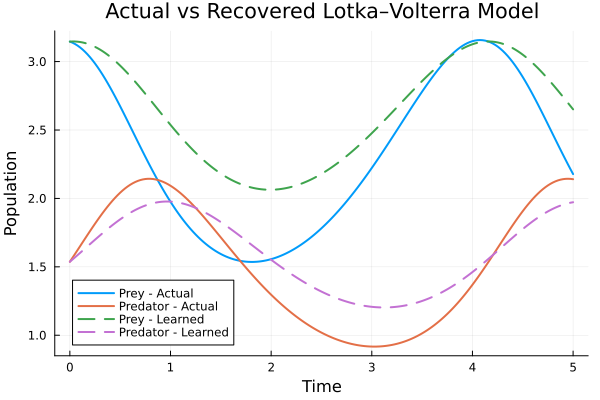
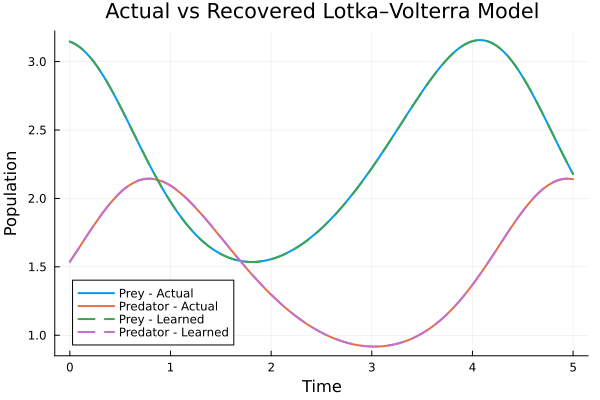
Debias the recovered coefficients with a least-squares refit
The L1 fit selects the active term (u1*u2); an ordinary least-squares refit on
that support then recovers its true magnitude (relaxed LASSO). Recovered
coefficients improve from ~0.83/0.70 to 0.899/0.800 (true 0.9/0.8), so the
actual-vs-learned model now overlays the ground truth almost exactly.

diff --git a/README.md b/README.md
@@ -57,9 +57,10 @@ split into seven labelled sections:
    with `Zygote` reverse-mode AD through the ODE solve.
 5. **Analysis** — trained trajectory vs. ground truth, the network's recovered
    interaction term vs. the true one, and the reconstruction error.
-6. **Sparse symbolic regression** — build a polynomial candidate library, then
-   solve a LASSO (`min ‖Φβ − y‖² + λ‖β‖₁`) so that only the genuinely-active
-   basis terms survive, yielding an interpretable equation.
+6. **Sparse symbolic regression** — build a polynomial candidate library and run
+   a *relaxed* LASSO: an L1 fit (`min ‖Φβ − y‖² + λ‖β‖₁`) selects the handful of
+   active terms, then ordinary least squares refits their magnitudes (debiasing
+   the L1 shrinkage) to give an interpretable equation with accurate coefficients.
 7. **Rebuild & compare** — plug the recovered coefficients back into the
    mechanistic ODE and compare against the true system.
 
@@ -136,20 +137,18 @@ Everything is written **next to the script**, so the repo stays self-contained.
 ## Result
 
 Out of the 15 candidate terms, the sparse regression keeps **only** the `x·y`
-interaction — every other coefficient is thresholded to zero — recovering the
-exact functional form of the missing physics:
+interaction — every other coefficient is driven to zero — recovering both the
+exact functional form **and** the magnitude of the missing physics:
 
 ```
-y1(t) ~ -0.834 * u1*u2      (true term: -0.9 * x*y)
-y2(t) ~  0.701 * u1*u2      (true term: +0.8 * x*y)
+y1(t) ~ -0.899 * u1*u2      (true term: -0.9 * x*y)
+y2(t) ~  0.800 * u1*u2      (true term: +0.8 * x*y)
 ```
 
-The **structure is recovered perfectly**; the magnitudes sit slightly below the
-true values because the L1 (LASSO) penalty shrinks coefficients toward zero —
-expected behaviour. Rebuilding the mechanistic Lotka–Volterra model from the
-recovered coefficients reproduces the predator–prey oscillation with only a
-modest offset from that shrinkage (`07_actual_vs_learned.png`): the missing
-physics has been rediscovered from noisy data.
+Rebuilding the mechanistic Lotka–Volterra model from these recovered coefficients
+reproduces the true predator–prey oscillation almost exactly
+(`07_actual_vs_learned.png`): the missing physics has been rediscovered from
+noisy data.
 
 ---
 